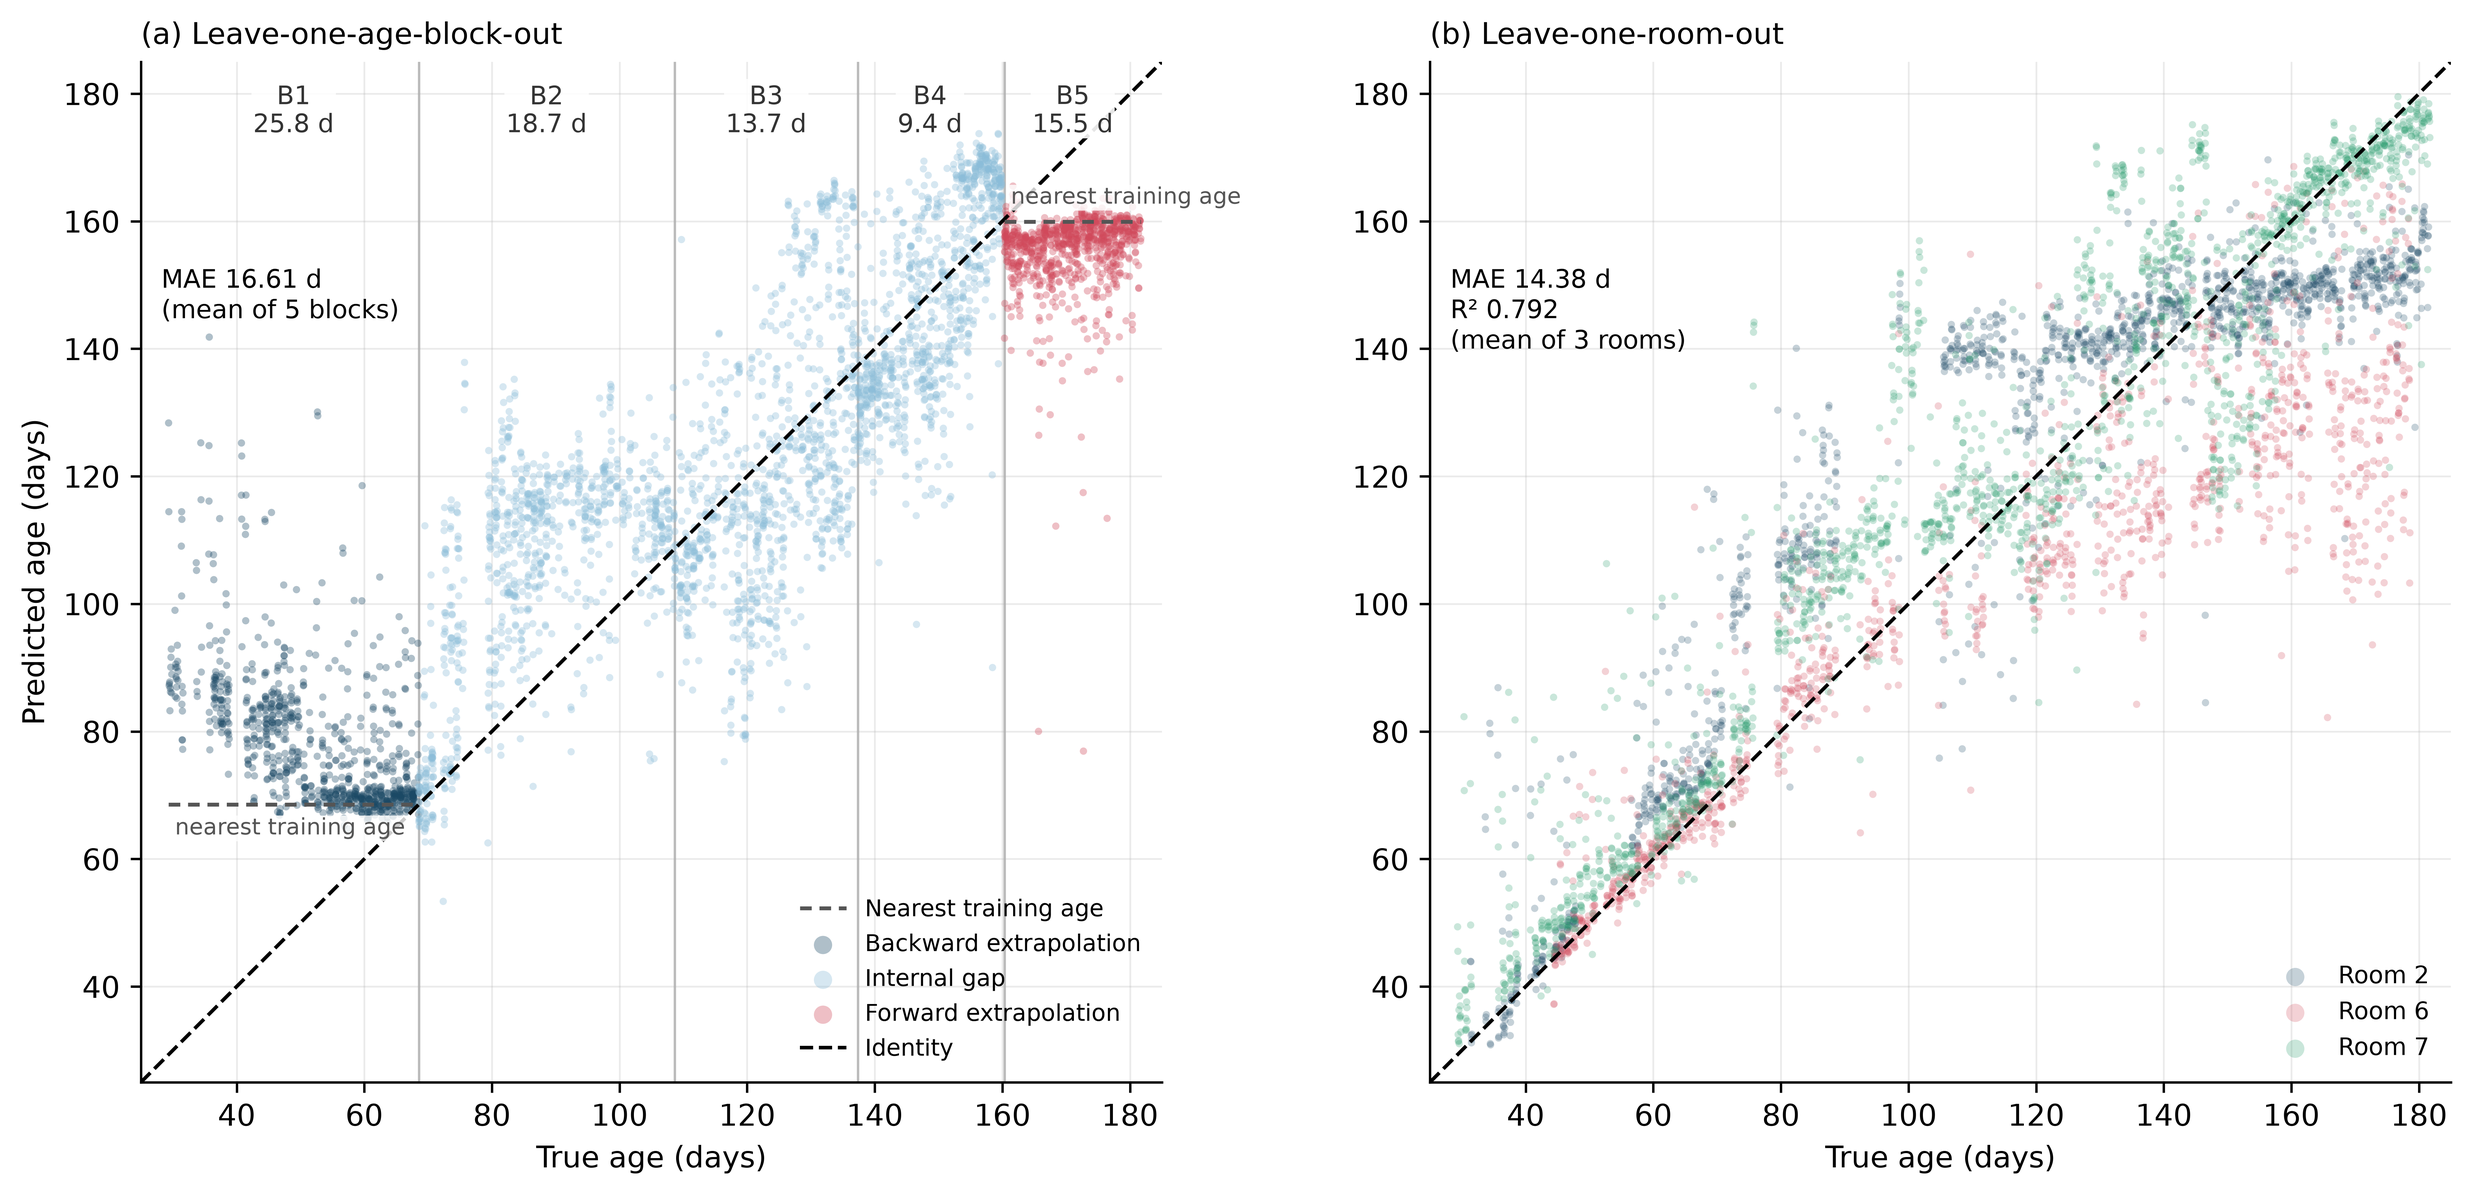
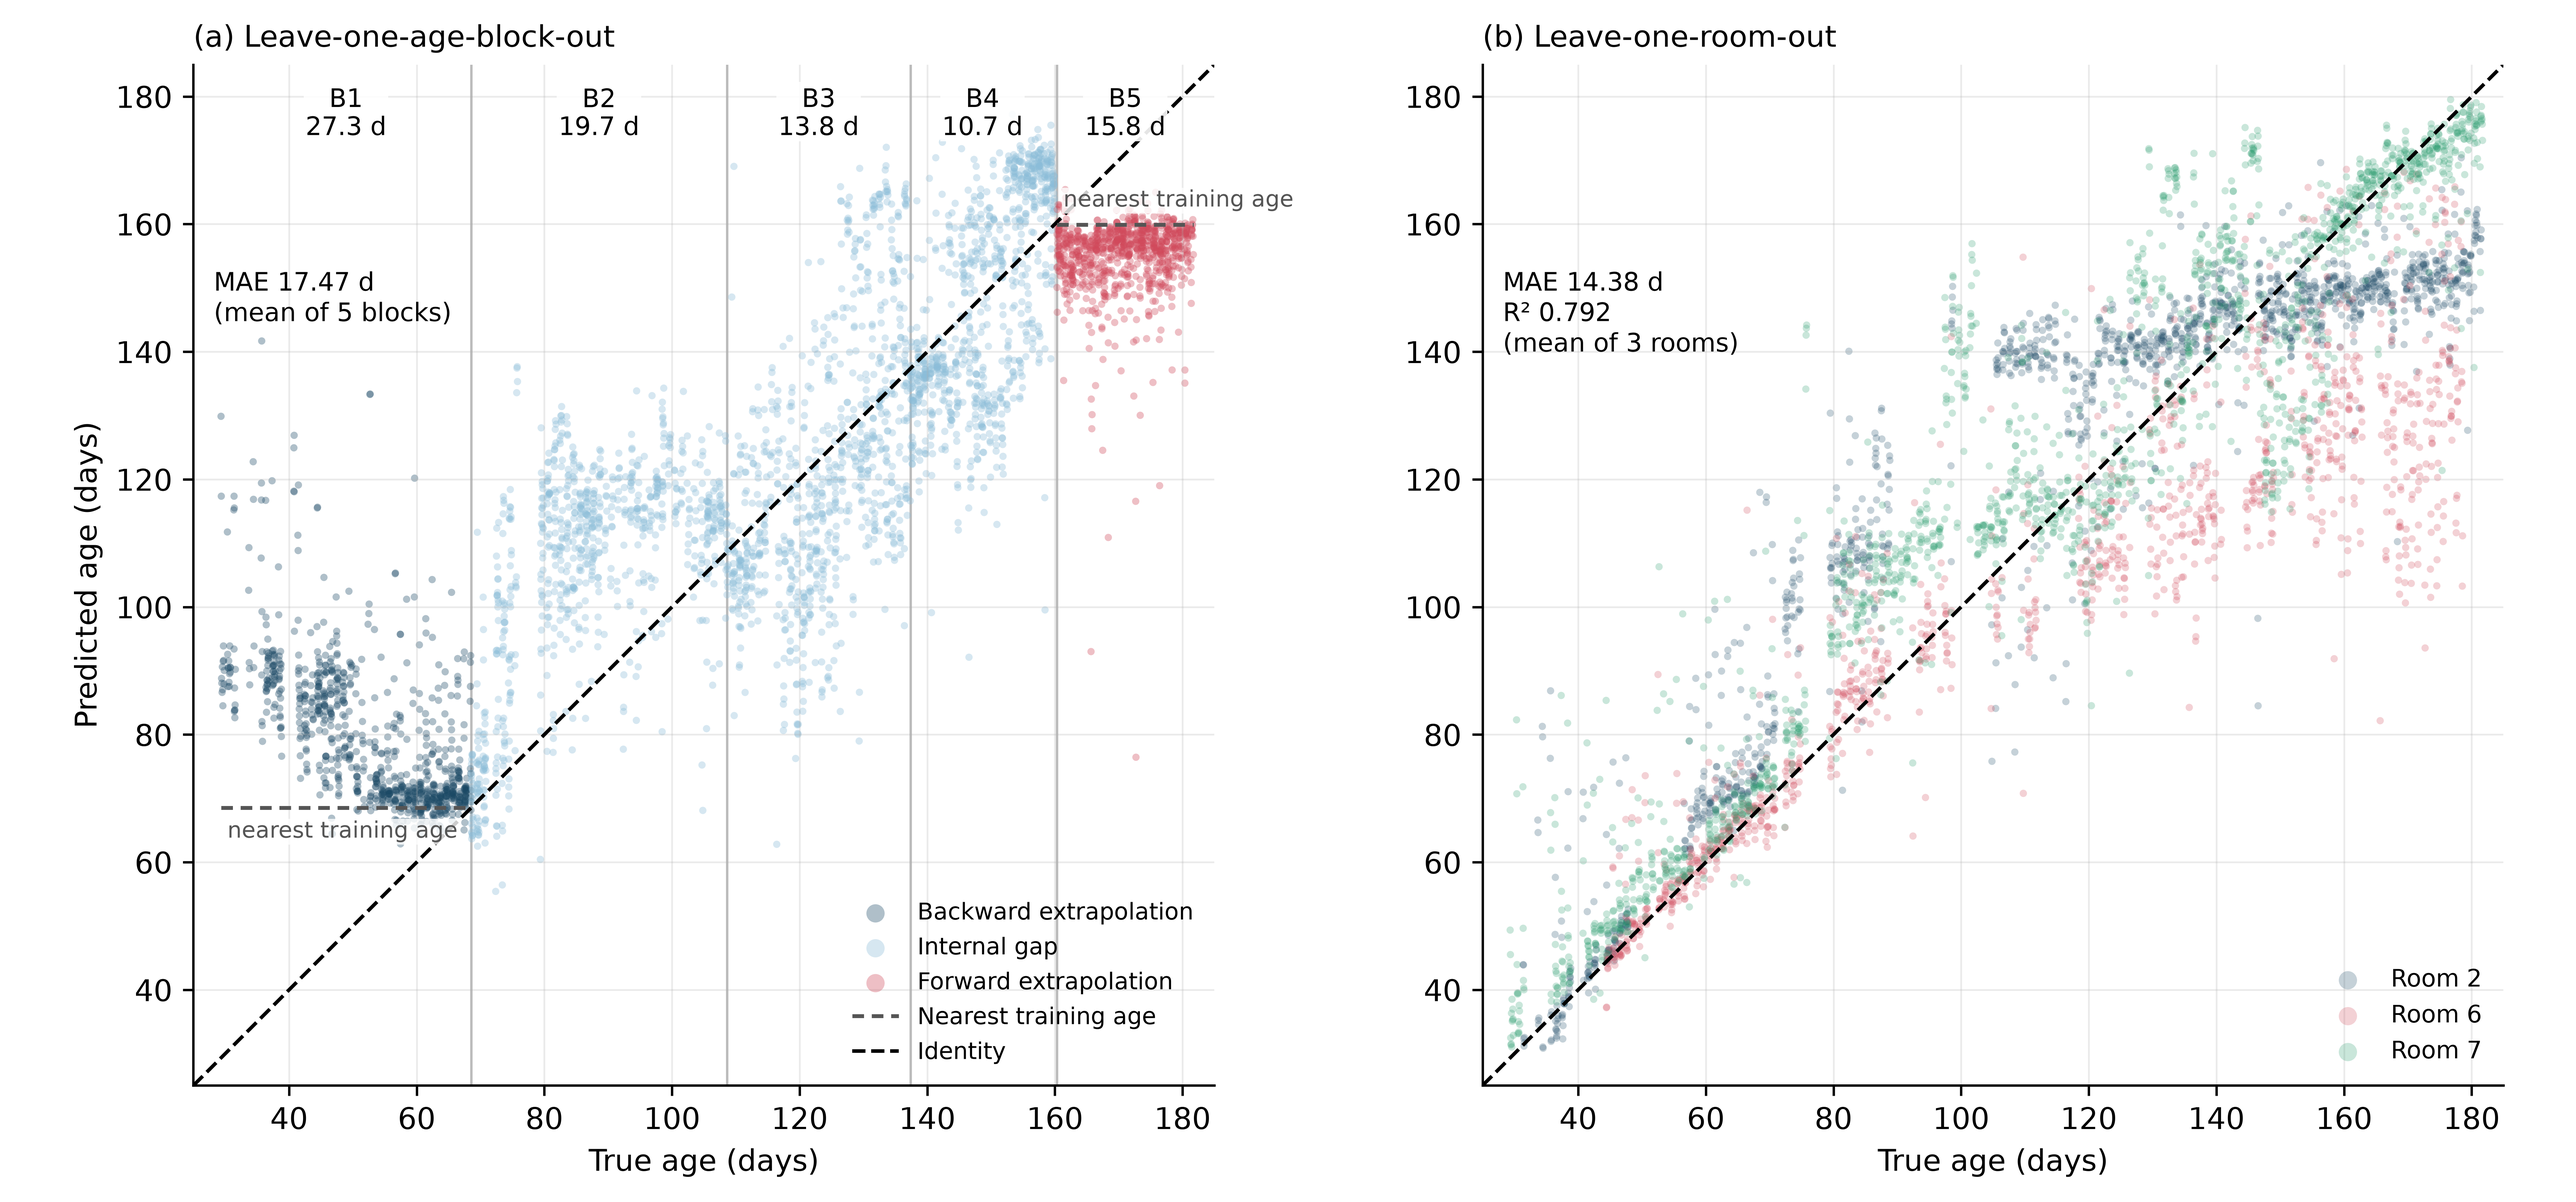
minor update for  the figs and code

diff --git a/code/detection.py b/code/detection.py
@@ -11,11 +11,20 @@ Windows:
   rolling          one window ending on every day (consecutive windows overlap)
   non-overlapping  consecutive disjoint 7-day blocks; comparisons with fewer than 10
                    windows on either side are reported as not estimable
+Operating point: for each held-out room, the 95%-specificity threshold is set ONLY on the
+unperturbed (k = 0) windows of the two training rooms (95th percentile of their scores);
+the held-out room's own windows never influence it. Sensitivity is the fraction of the
+held-out room's injected windows above that threshold; realised specificity is the
+fraction of its own unperturbed windows below it (it need not equal the nominal 95%).
+Counts are pooled over the three held-out rooms for the all-rooms figures. AUC is a
+threshold-free ranking statistic and is computed as before.
 Uncertainty: 95% CIs from a block bootstrap over (room, Monday-Sunday week) units,
-resampled within each room, 2,000 replicates, seed 0; the 95%-specificity threshold is
-recomputed in every replicate.
+resampled within each room, 2,000 replicates; the training-room threshold is re-derived
+from the resampled training-room windows inside every replicate.
 
-Outputs (results/):
+Optional: `--out <dir>` writes every output to <dir> instead of results/.
+
+Outputs (results/ or --out):
   detection_daily_gaps.csv, detection_performance.csv, detection_min_detectable.csv,
   detection_bootstrap.csv, gap_recovery.csv, gap_recovery_blocks.csv, detection_block_counts.csv
 """
@@ -25,9 +34,14 @@ sys.path.insert(0, str(Path(__file__).resolve().parent))
 warnings.filterwarnings("ignore")
 import numpy as np
 import pandas as pd
-from sklearn.metrics import roc_auc_score, roc_curve
+from sklearn.metrics import roc_auc_score
 from common import RESULTS, ROOMS
 import preprocessing as P
+
+OUT_DIR = RESULTS
+if "--out" in sys.argv:
+    OUT_DIR = Path(sys.argv[sys.argv.index("--out") + 1])
+    OUT_DIR.mkdir(parents=True, exist_ok=True)
 
 KS = [0, 3, 5, 7, 10, 15, 20]
 KPOS = [3, 5, 7, 10, 15, 20]
@@ -71,6 +85,34 @@ def block_windows(daily):
     return pd.concat(out, ignore_index=True)
 
 
+def loro_operating_point(neg_by_room, pos_by_room):
+    """Leave-one-room-out operating point at nominal 95% specificity.
+
+    For each held-out room r the threshold is the 95th percentile of the scores (-stat) of the
+    unperturbed windows of the OTHER rooms only. It is then applied to r's own unperturbed
+    windows (false positives / true negatives) and r's own injected windows (true positives /
+    false negatives). r's windows never enter its own threshold."""
+    per = {}
+    for r in ROOMS:
+        train_neg = [-neg_by_room[o] for o in ROOMS if o != r and len(neg_by_room[o])]
+        train_neg = np.concatenate(train_neg) if train_neg else np.array([])
+        rec = dict(tp=0, fn=0, tn=0, fp=0, n_train_neg=len(train_neg))
+        if len(train_neg):
+            thr = float(np.quantile(train_neg, 0.95))
+            own_pos, own_neg = -pos_by_room[r], -neg_by_room[r]
+            rec.update(tp=int((own_pos > thr).sum()), fn=int((own_pos <= thr).sum()),
+                       tn=int((own_neg <= thr).sum()), fp=int((own_neg > thr).sum()))
+        per[r] = rec
+    pooled = {k: sum(per[r][k] for r in ROOMS) for k in ("tp", "fn", "tn", "fp")}
+    return per, pooled
+
+
+def rates(rec):
+    sens = rec["tp"] / (rec["tp"] + rec["fn"]) if rec["tp"] + rec["fn"] else np.nan
+    spec = rec["tn"] / (rec["tn"] + rec["fp"]) if rec["tn"] + rec["fp"] else np.nan
+    return sens, spec
+
+
 def detect(S):
     det = []
     neg_all = S[S.k == 0]
@@ -81,17 +123,24 @@ def detect(S):
                 pos = S[(S.k == k) & (S["mode"] == mode)]
                 if phase != "all":
                     pos = pos[pos.phase == phase]
+                nb = {r: neg[neg.room == r].stat.values for r in ROOMS}
+                pb = {r: pos[pos.room == r].stat.values for r in ROOMS}
+                per, pooled = loro_operating_point(nb, pb)
+                min_train_neg = min(per[r]["n_train_neg"] for r in ROOMS)
                 row = dict(mode=mode, phase=phase, k_days=k, n_pos=len(pos), n_neg=len(neg))
                 row["estimable"] = len(pos) >= MIN_WINDOWS and len(neg) >= MIN_WINDOWS
                 if row["estimable"]:
                     y = np.r_[np.zeros(len(neg)), np.ones(len(pos))]
-                    sc = np.r_[-neg.stat.values, -pos.stat.values]
-                    fpr, tpr, _ = roc_curve(y, sc)
-                    row["AUC"] = roc_auc_score(y, sc)
-                    row["sensitivity_at_95pct_specificity"] = float(np.interp(0.05, fpr, tpr))
+                    row["AUC"] = roc_auc_score(y, np.r_[-neg.stat.values, -pos.stat.values])
+                    row["sensitivity_at_95pct_specificity"], row["realised_specificity"] = rates(pooled)
+                    for r in ROOMS:
+                        row[f"sensitivity_{r}"], row[f"realised_specificity_{r}"] = rates(per[r])
                 else:
-                    row["AUC"] = row["sensitivity_at_95pct_specificity"] = np.nan
-                row["fpr_0.05_resolvable"] = bool(len(neg) >= 20)
+                    row["AUC"] = row["sensitivity_at_95pct_specificity"] = row["realised_specificity"] = np.nan
+                    for r in ROOMS:
+                        row[f"sensitivity_{r}"] = row[f"realised_specificity_{r}"] = np.nan
+                row["min_training_negatives"] = min_train_neg
+                row["fpr_0.05_resolvable"] = bool(min_train_neg >= 20)
                 det.append(row)
     return pd.DataFrame(det)
 
@@ -132,7 +181,7 @@ for room, g in G.groupby("room"):
     out.append(g)
 G = pd.concat(out, ignore_index=True)
 daily = G.groupby(["room", "mode", "k", "day", "phase"]).gap_corrected.median().reset_index()
-daily.to_csv(RESULTS / "detection_daily_gaps.csv", index=False)
+daily.to_csv(OUT_DIR / "detection_daily_gaps.csv", index=False)
 
 # ---------------------------------------------------------------- AUC / sensitivity
 ROLL, BLK = rolling_windows(daily), block_windows(daily)
@@ -141,83 +190,106 @@ det = pd.concat([detect(ROLL).assign(window="rolling"), detect(BLK).assign(windo
 det["status"] = np.where(~det.estimable, "not estimable (<10 windows)",
                          np.where(~det["fpr_0.05_resolvable"], "estimable; <20 negatives, 5% FPR not resolvable",
                                   "estimable"))
-det.to_csv(RESULTS / "detection_performance.csv", index=False)
+det.to_csv(OUT_DIR / "detection_performance.csv", index=False)
 
 md = []
 for (wt, mode, phase), g in det.groupby(["window", "mode", "phase"]):
     ok = g[g.estimable & (g.sensitivity_at_95pct_specificity >= 0.80)]
     md.append(dict(window=wt, mode=mode, phase=phase, min_detectable_delay_days=ok.k_days.min() if len(ok) else np.nan,
                    n_estimable_delays=int(g.estimable.sum())))
-pd.DataFrame(md).to_csv(RESULTS / "detection_min_detectable.csv", index=False)
+pd.DataFrame(md).to_csv(OUT_DIR / "detection_min_detectable.csv", index=False)
 
 rec = (BLK.groupby(["mode", "k", "phase"]).stat.agg(["median", "std", "count"]).reset_index())
-rec.to_csv(RESULTS / "gap_recovery_blocks.csv", index=False)
+rec.to_csv(OUT_DIR / "gap_recovery_blocks.csv", index=False)
 cnt = []
 for ph in PHASES:
     for k in KS:
         s = rec[(rec.phase == ph) & (rec.k == k)]
         n = int(s["count"].iloc[0])
         cnt.append(dict(phase=ph, k_days=k, n_independent_blocks=n, estimable=n >= MIN_WINDOWS))
-pd.DataFrame(cnt).to_csv(RESULTS / "detection_block_counts.csv", index=False)
+pd.DataFrame(cnt).to_csv(OUT_DIR / "detection_block_counts.csv", index=False)
 
 # ---------------------------------------------------------------- week-block bootstrap
 ROLL["week"] = ROLL.day.dt.to_period("W-SUN").astype(str)
+SCOPES = ["all rooms"] + ROOMS
 
 
-def score(neg, pos):
+def auc_only(neg, pos):
     y = np.r_[np.zeros(len(neg)), np.ones(len(pos))]
-    sc = np.r_[-neg, -pos]
-    fpr, tpr, _ = roc_curve(y, sc)
-    return roc_auc_score(y, sc), float(np.interp(0.05, fpr, tpr))
+    return roc_auc_score(y, np.r_[-neg, -pos])
 
 
-def boot_cell(neg_df, pos_df, rooms, rng):
-    auc, sens = score(neg_df.stat.values, pos_df.stat.values)
-    units = {}
-    for r in rooms:
-        wk = sorted(set(neg_df[neg_df.room == r].week) | set(pos_df[pos_df.room == r].week))
-        if wk:
-            units[r] = wk
+def boot_cell(neg_df, pos_df, rng):
+    """One bootstrap over (room, week) units; every replicate resamples all three rooms and
+    re-derives each held-out room's threshold from the resampled training-room windows."""
+    nb0 = {r: neg_df[neg_df.room == r].stat.values for r in ROOMS}
+    pb0 = {r: pos_df[pos_df.room == r].stat.values for r in ROOMS}
+    per0, pooled0 = loro_operating_point(nb0, pb0)
+    point = {"all rooms": dict(auc=auc_only(np.concatenate(list(nb0.values())), np.concatenate(list(pb0.values()))),
+                               sens_spec=rates(pooled0))}
+    for r in ROOMS:
+        point[r] = dict(auc=auc_only(nb0[r], pb0[r]) if len(nb0[r]) and len(pb0[r]) else np.nan,
+                        sens_spec=rates(per0[r]))
+    units = {r: sorted(set(neg_df[neg_df.room == r].week) | set(pos_df[pos_df.room == r].week)) for r in ROOMS}
     neg_by = {(r, w): g.stat.values for (r, w), g in neg_df.groupby(["room", "week"])}
     pos_by = {(r, w): g.stat.values for (r, w), g in pos_df.groupby(["room", "week"])}
-    aucs, senss, degen = [], [], 0
+    reps = {sc: dict(auc=[], sens=[], spec=[]) for sc in SCOPES}
+    degen = {sc: 0 for sc in SCOPES}
     for _ in range(N_BOOT):
-        nn, pp = [], []
+        nn = {r: [] for r in ROOMS}; pp = {r: [] for r in ROOMS}
         for r, wk in units.items():
-            for w in rng.choice(wk, size=len(wk), replace=True):
-                if (r, w) in neg_by: nn.append(neg_by[(r, w)])
-                if (r, w) in pos_by: pp.append(pos_by[(r, w)])
-        if not nn or not pp:
-            degen += 1
-            continue
-        a, s = score(np.concatenate(nn), np.concatenate(pp))
-        aucs.append(a); senss.append(s)
-    pct = lambda v, q: np.percentile(v, q) if v else np.nan
-    return dict(AUC=auc, AUC_ci_lo=pct(aucs, 2.5), AUC_ci_hi=pct(aucs, 97.5),
-                sensitivity_95spec=sens, sensitivity_ci_lo=pct(senss, 2.5), sensitivity_ci_hi=pct(senss, 97.5),
-                n_weeks=sum(len(v) for v in units.values()),
-                n_weeks_per_room="/".join(str(len(units.get(r, []))) for r in rooms),
-                n_windows_neg=len(neg_df), n_windows_pos=len(pos_df), n_degenerate_replicates=degen)
+            for w in (rng.choice(wk, size=len(wk), replace=True) if wk else []):
+                if (r, w) in neg_by: nn[r].append(neg_by[(r, w)])
+                if (r, w) in pos_by: pp[r].append(pos_by[(r, w)])
+        nb = {r: np.concatenate(v) if v else np.array([]) for r, v in nn.items()}
+        pb = {r: np.concatenate(v) if v else np.array([]) for r, v in pp.items()}
+        per, pooled = loro_operating_point(nb, pb)
+        an, ap = np.concatenate(list(nb.values())), np.concatenate(list(pb.values()))
+        if len(an) and len(ap):
+            reps["all rooms"]["auc"].append(auc_only(an, ap))
+        else:
+            degen["all rooms"] += 1
+        s_, sp_ = rates(pooled)
+        if not np.isnan(s_): reps["all rooms"]["sens"].append(s_)
+        if not np.isnan(sp_): reps["all rooms"]["spec"].append(sp_)
+        for r in ROOMS:
+            if len(nb[r]) and len(pb[r]):
+                reps[r]["auc"].append(auc_only(nb[r], pb[r]))
+            else:
+                degen[r] += 1
+            s_, sp_ = rates(per[r])
+            if not np.isnan(s_): reps[r]["sens"].append(s_)
+            if not np.isnan(sp_): reps[r]["spec"].append(sp_)
+    pct = lambda v, q: float(np.percentile(v, q)) if v else np.nan
+    out = []
+    for sc in SCOPES:
+        rooms = ROOMS if sc == "all rooms" else [sc]
+        out.append(dict(scope=sc, AUC=point[sc]["auc"], AUC_ci_lo=pct(reps[sc]["auc"], 2.5), AUC_ci_hi=pct(reps[sc]["auc"], 97.5),
+                        sensitivity_95spec=point[sc]["sens_spec"][0],
+                        sensitivity_ci_lo=pct(reps[sc]["sens"], 2.5), sensitivity_ci_hi=pct(reps[sc]["sens"], 97.5),
+                        realised_specificity=point[sc]["sens_spec"][1],
+                        specificity_ci_lo=pct(reps[sc]["spec"], 2.5), specificity_ci_hi=pct(reps[sc]["spec"], 97.5),
+                        n_weeks=sum(len(units[r]) for r in rooms),
+                        n_weeks_per_room="/".join(str(len(units[r])) for r in rooms),
+                        n_windows_neg=sum(len(nb0[r]) for r in rooms), n_windows_pos=sum(len(pb0[r]) for r in rooms),
+                        n_degenerate_replicates=degen[sc]))
+    return out
 
 
-rng = np.random.default_rng(0)
 rows = []
-for mode in ("all_sensor", "morph_only"):
-    for phase in PHASES:
+for mi, mode in enumerate(("all_sensor", "morph_only")):
+    for pi, phase in enumerate(PHASES):
         neg_all = ROLL[(ROLL.k == 0) & (ROLL.phase == phase)]
         for k in [5, 10, 15, 20]:
             pos_all = ROLL[(ROLL.k == k) & (ROLL["mode"] == mode) & (ROLL.phase == phase)]
-            rows.append(dict(scope="all rooms", mode=mode, phase=phase, k_days=k,
-                             **boot_cell(neg_all, pos_all, ROOMS, rng)))
-            if phase.startswith("growth"):
-                for r in ROOMS:
-                    rows.append(dict(scope=r, mode=mode, phase=phase, k_days=k,
-                                     **boot_cell(neg_all[neg_all.room == r], pos_all[pos_all.room == r], [r], rng)))
+            rng = np.random.default_rng([0, mi, pi, k])
+            for rec in boot_cell(neg_all, pos_all, rng):
+                rows.append(dict(mode=mode, phase=phase, k_days=k, **rec))
 Bt = pd.DataFrame(rows)
 Bt["flags"] = Bt.apply(lambda x: "; ".join(f for f, on in (
     ("AUC CI lower bound <= 0.5", x.AUC_ci_lo <= 0.5),
     (f"degenerate replicates: {x.n_degenerate_replicates}/{N_BOOT}", x.n_degenerate_replicates > 0)) if on), axis=1)
-Bt.to_csv(RESULTS / "detection_bootstrap.csv", index=False)
+Bt.to_csv(OUT_DIR / "detection_bootstrap.csv", index=False)
 
 # ---------------------------------------------------------------- gap recovery (rolling) with CIs
 rng = np.random.default_rng(0)
@@ -242,6 +314,6 @@ for mode in ("both", "morph_only", "all_sensor"):
                            n_weeks=sum(len(v) for v in by.values()),
                            n_weeks_per_room="/".join(str(len(by.get(r, {}))) for r in ROOMS),
                            n_windows=len(g)))
-pd.DataFrame(gr).to_csv(RESULTS / "gap_recovery.csv", index=False)
+pd.DataFrame(gr).to_csv(OUT_DIR / "gap_recovery.csv", index=False)
 print(det[det.window == "non-overlapping"][["mode", "phase", "k_days", "n_pos", "n_neg", "AUC", "status"]]
       .round(3).to_string(index=False))
